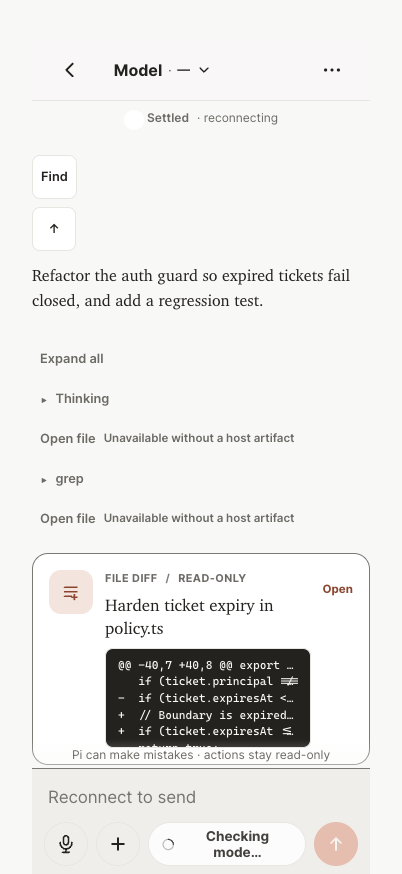
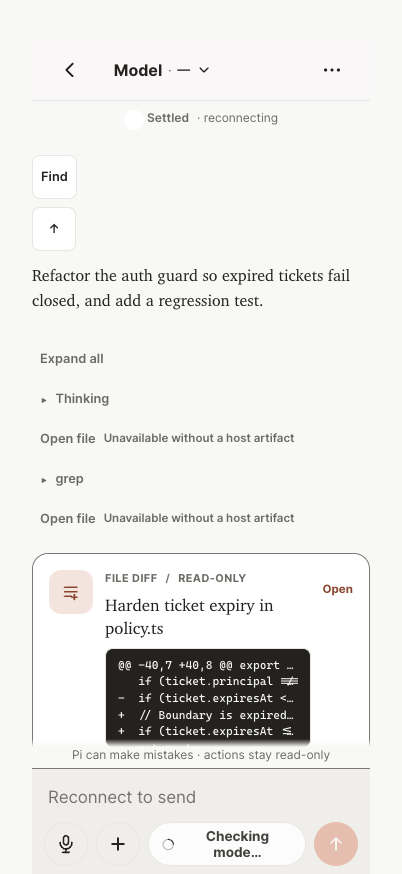
fix(008-composer-send): back the composer disclaimer against the transcript
.composer--region faded `to top, --canvas 50%, transparent`, leaving the
upper band — where the disclaimer line renders — largely transparent. A
402x874 capture of views/chat--default confirmed that text landing over a
file-diff card, and at other scroll positions it could land on the dark
code block and become unreadable.

Invert the gradient: transparent at the very top easing to solid --canvas
by --space-2, so everything from 8px down (the disclaimer included) has an
opaque backing while the transition into the transcript stays soft. The
disclaimer carries live relay status and the read-only safety notice, so
it must stay legible over any content that scrolls beneath it. --canvas
flips per theme, so both themes follow.

Verified visually: the recapture shows the dark code block cleanly
clipped by the opaque region with the disclaimer fully backed, and no
change to the composer bar itself. Presentation only; fence and
iterations 1-9 intact. typecheck 0 errors, eslint clean, test:web both
suites green (76+43 files, 607+542 tests). Screenshots recaptured
(287/287, 0 failed).

Claude-Session: https://claude.ai/code/session_011fQbHHr8Ji9nvsr4fSUmgF

Changed region(s): [[0.2687, 0.8341, 0.7761, 0.865]]

diff --git a/app-mobile/src/pages/chat/chrome/session-composer.svelte b/app-mobile/src/pages/chat/chrome/session-composer.svelte
@@ -985,7 +985,7 @@
     padding-bottom: 0;
     padding-inline-start: env(safe-area-inset-left, 0px);
     padding-inline-end: env(safe-area-inset-right, 0px);
-    background: linear-gradient(to top, var(--canvas) 50%, transparent);
+    background: linear-gradient(to bottom, transparent 0, var(--canvas) var(--space-2));
   }
 
   /* This surface: composer — edge-to-edge full-width input container. */
